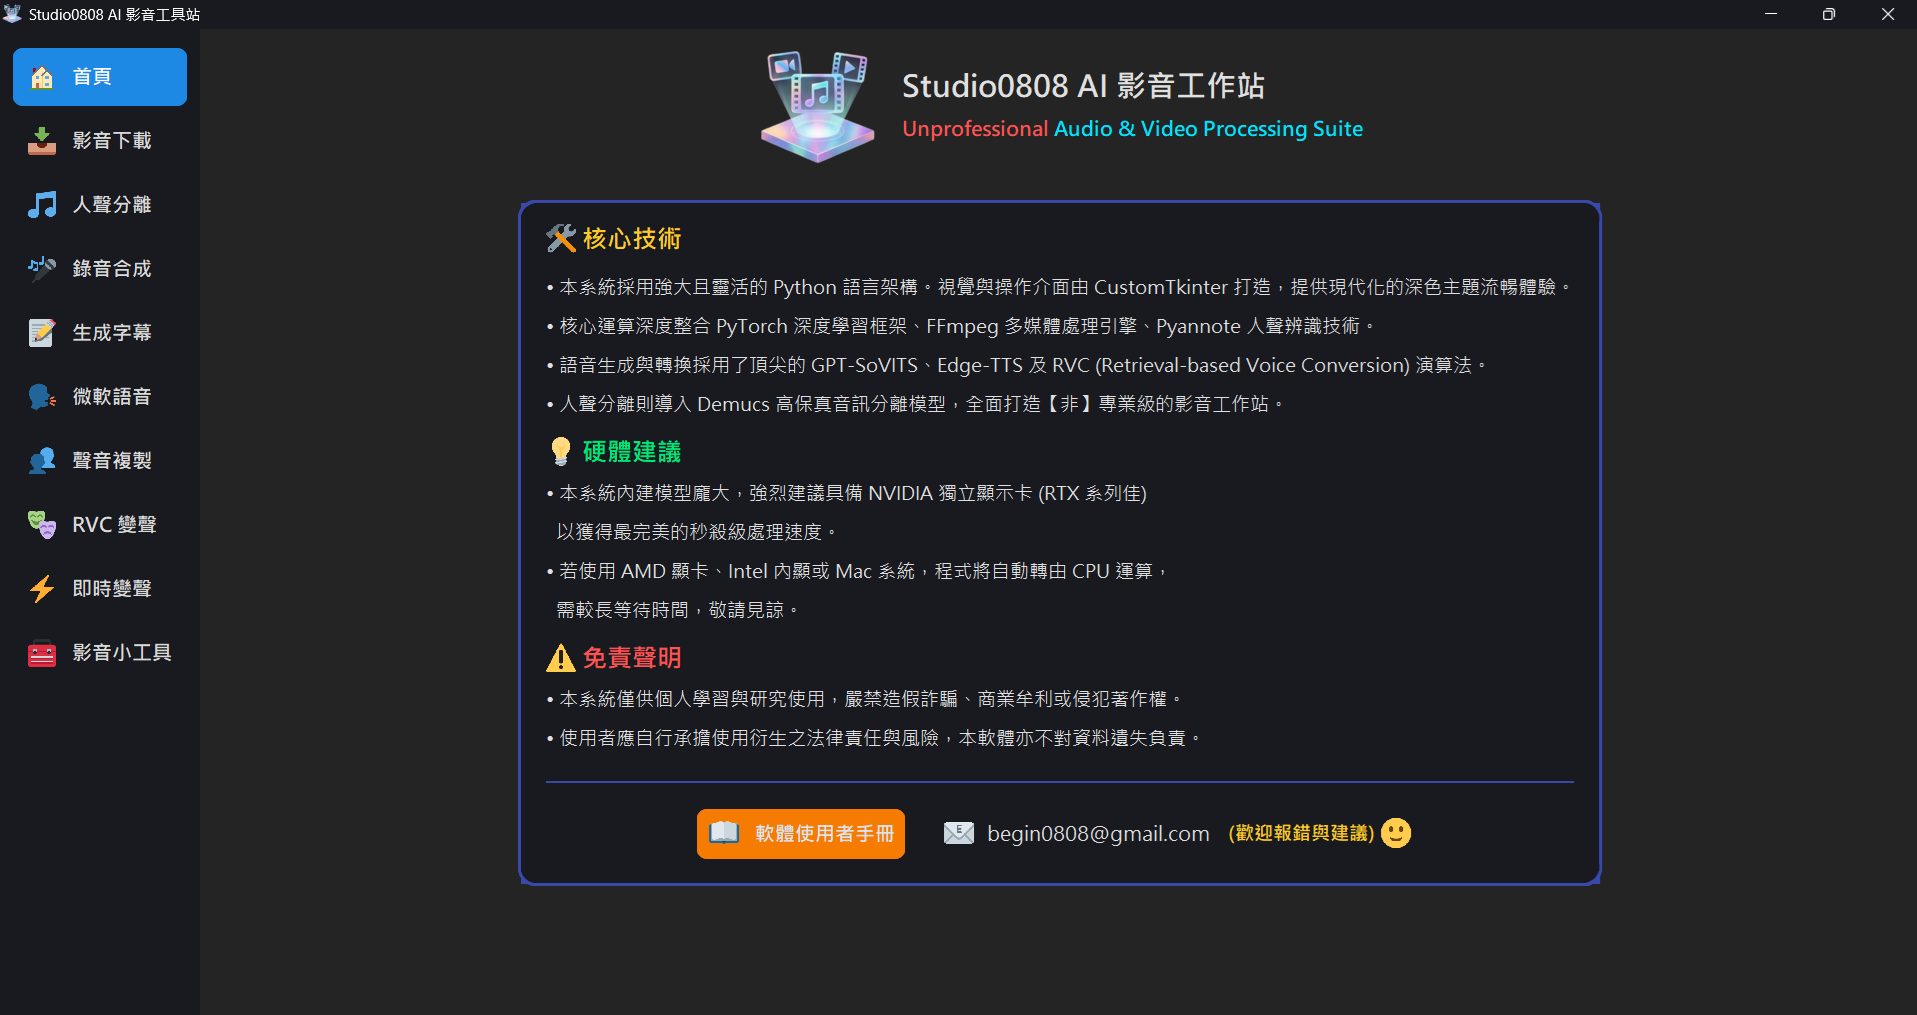
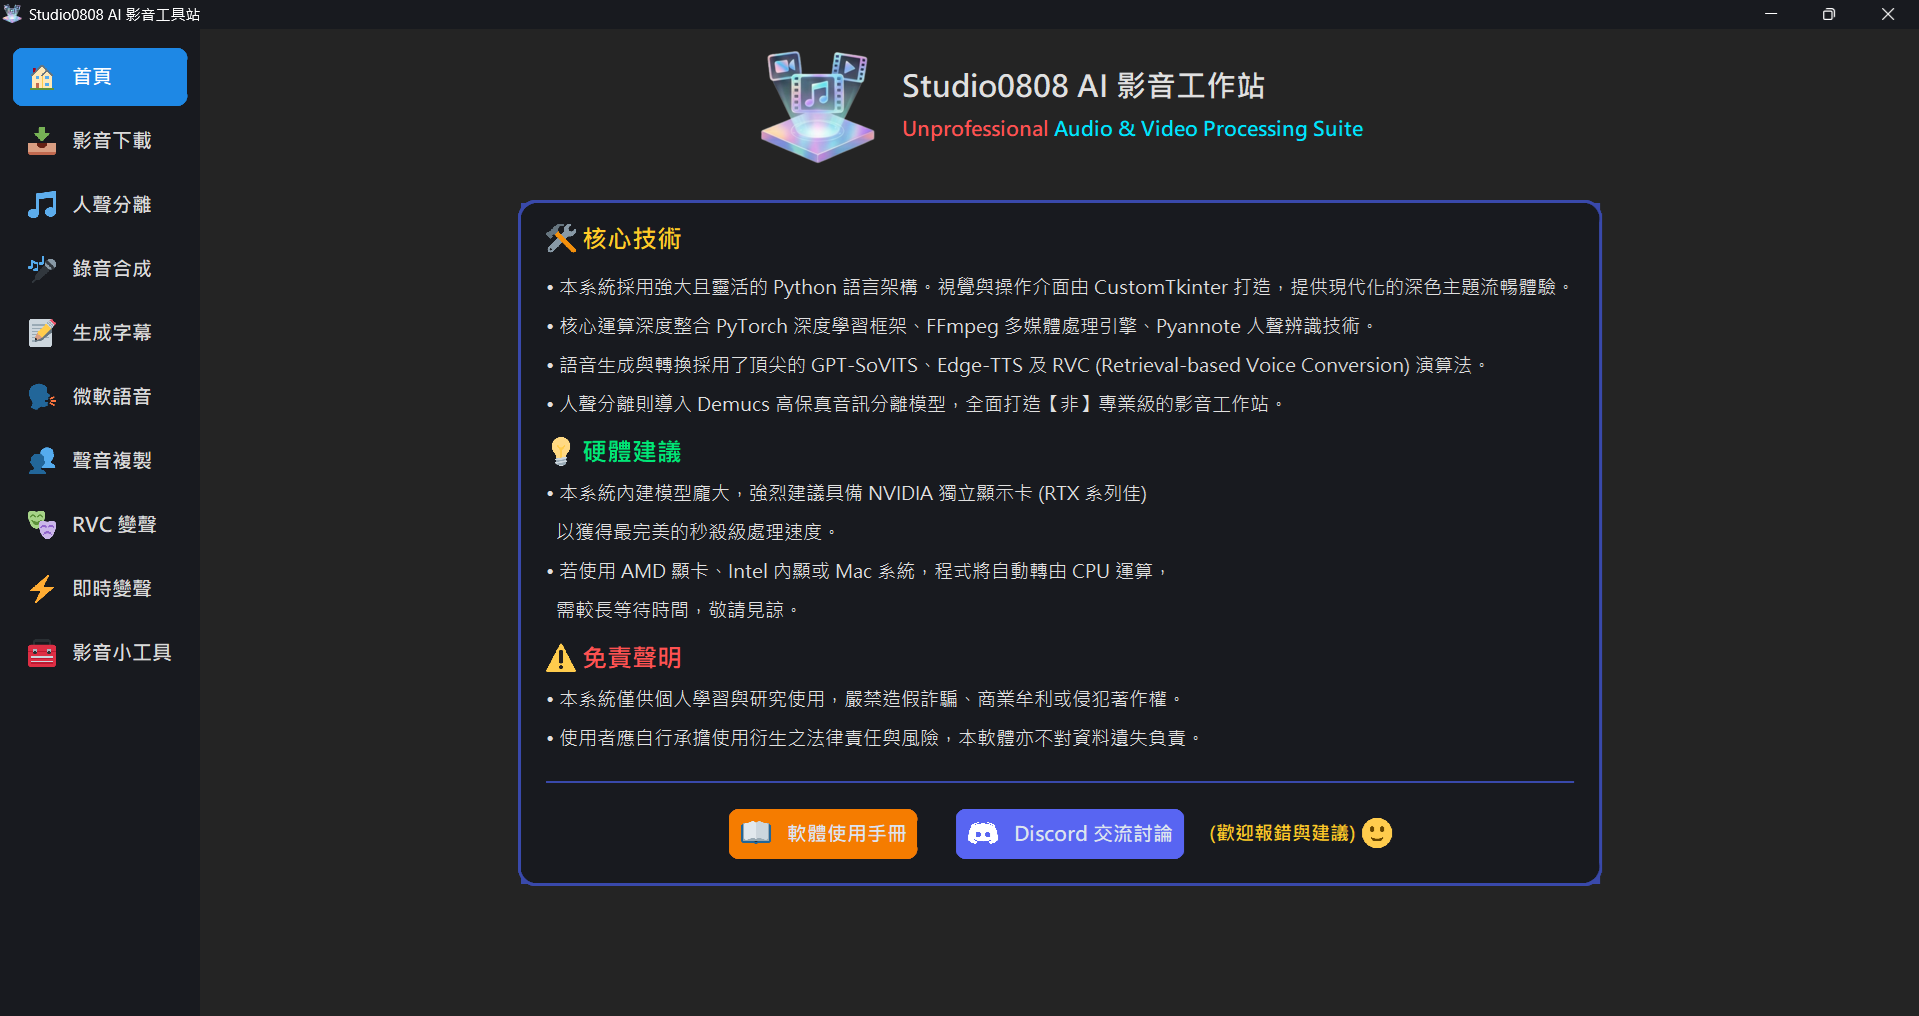
Update docs: add missing image tags, update download links, and sync screenshots

diff --git a/index.html b/index.html
@@ -232,24 +232,24 @@
             </div>
             <!-- 下載與社群按鈕 -->
             <div style="margin-top: 20px; display: flex; flex-direction: column; gap: 10px; padding: 0 15px;">
-                <a href="#" id="download-full-btn"
+                <a href="https://drive.google.com/file/d/15ZfQhFUGVTCoKxLwNDMinNuGALd3HiYC/view?usp=sharing" id="download-full-btn" target="_blank"
                     style="text-decoration: none; padding: 10px; border-radius: 8px; font-size: 14px; font-weight: bold; background: linear-gradient(135deg, #00B0FF, #0081CB); color: white; text-align: center; box-shadow: 0 4px 10px rgba(0, 176, 255, 0.3); transition: 0.3s;"
                     onmouseover="this.style.transform='translateY(-2px)'; this.style.boxShadow='0 6px 15px rgba(0, 176, 255, 0.5)';"
                     onmouseout="this.style.transform='translateY(0)'; this.style.boxShadow='0 4px 10px rgba(0, 176, 255, 0.3)';"
-                    onclick="alert('完整版上傳中，請稍後再試！'); return false;">📥 完整版 (含聲音複製)</a>
+                    >📥 完整版 (含聲音複製)</a>
                     
-                <a href="#" id="download-mid-btn"
+                <a href="https://drive.google.com/file/d/1WQ4ha5JsA9Tjs8Z6oN7BpP26cZFimnOv/view?usp=sharing" id="download-mid-btn" target="_blank"
                     style="text-decoration: none; padding: 10px; border-radius: 8px; font-size: 14px; font-weight: bold; background: linear-gradient(135deg, #00C853, #00A244); color: white; text-align: center; box-shadow: 0 4px 10px rgba(0, 200, 83, 0.3); transition: 0.3s;"
                     onmouseover="this.style.transform='translateY(-2px)'; this.style.boxShadow='0 6px 15px rgba(0, 200, 83, 0.5)';"
                     onmouseout="this.style.transform='translateY(0)'; this.style.boxShadow='0 4px 10px rgba(0, 200, 83, 0.3)';"
-                    onclick="alert('中量版上傳中，請稍後再試！'); return false;">📥 中量版 (無聲音複製)</a>
+                    >📥 中量版 (無聲音複製)</a>
                 
                 <a href="https://discord.gg/F7mC37MBtF" target="_blank"
                     style="text-decoration: none; padding: 8px; border-radius: 8px; font-size: 14px; font-weight: bold; background: #5865F2; color: white; text-align: center; transition: 0.3s;"
                     onmouseover="this.style.backgroundColor='#4752C4';"
                     onmouseout="this.style.backgroundColor='#5865F2';">💬 Discord 交流討論區</a>
                 
-                <p style="font-size: 11px; color: var(--text-muted); text-align: center; margin-top: 5px;">最後發布版本：2026.04.08</p>
+                <p style="font-size: 11px; color: var(--text-muted); text-align: center; margin-top: 5px;">最後發布版本：2026.04.15</p>
             </div>
         </div>
 

diff --git a/index_en.html b/index_en.html
@@ -232,24 +232,24 @@
             </div>
             <!-- Download & Community Buttons -->
             <div style="margin-top: 20px; display: flex; flex-direction: column; gap: 10px; padding: 0 15px;">
-                <a href="#" id="download-full-btn"
+                <a href="https://drive.google.com/file/d/15ZfQhFUGVTCoKxLwNDMinNuGALd3HiYC/view?usp=sharing" id="download-full-btn" target="_blank"
                     style="text-decoration: none; padding: 10px; border-radius: 8px; font-size: 14px; font-weight: bold; background: linear-gradient(135deg, #00B0FF, #0081CB); color: white; text-align: center; box-shadow: 0 4px 10px rgba(0, 176, 255, 0.3); transition: 0.3s;"
                     onmouseover="this.style.transform='translateY(-2px)'; this.style.boxShadow='0 6px 15px rgba(0, 176, 255, 0.5)';"
                     onmouseout="this.style.transform='translateY(0)'; this.style.boxShadow='0 4px 10px rgba(0, 176, 255, 0.3)';"
-                    onclick="alert('Uploading Full Version, please try again later!'); return false;">📥 Download Full Version</a>
+                    >📥 Download Full Version</a>
                     
-                <a href="#" id="download-mid-btn"
+                <a href="https://drive.google.com/file/d/1WQ4ha5JsA9Tjs8Z6oN7BpP26cZFimnOv/view?usp=sharing" id="download-mid-btn" target="_blank"
                     style="text-decoration: none; padding: 10px; border-radius: 8px; font-size: 14px; font-weight: bold; background: linear-gradient(135deg, #00C853, #00A244); color: white; text-align: center; box-shadow: 0 4px 10px rgba(0, 200, 83, 0.3); transition: 0.3s;"
                     onmouseover="this.style.transform='translateY(-2px)'; this.style.boxShadow='0 6px 15px rgba(0, 200, 83, 0.5)';"
                     onmouseout="this.style.transform='translateY(0)'; this.style.boxShadow='0 4px 10px rgba(0, 200, 83, 0.3)';"
-                    onclick="alert('Uploading Medium Version, please try again later!'); return false;">📥 Download Medium Version</a>
+                    >📥 Download Medium Version</a>
                 
                 <a href="https://discord.gg/F7mC37MBtF" target="_blank"
                     style="text-decoration: none; padding: 8px; border-radius: 8px; font-size: 14px; font-weight: bold; background: #5865F2; color: white; text-align: center; transition: 0.3s;"
                     onmouseover="this.style.backgroundColor='#4752C4';"
                     onmouseout="this.style.backgroundColor='#5865F2';">💬 Discord Community</a>
                 
-                <p style="font-size: 11px; color: var(--text-muted); text-align: center; margin-top: 5px;">Last Release: 2026.04.08</p>
+                <p style="font-size: 11px; color: var(--text-muted); text-align: center; margin-top: 5px;">Last Release: 2026.04.15</p>
             </div>
         </div>
 

diff --git a/recording_assistant_guide.html b/recording_assistant_guide.html
@@ -100,6 +100,11 @@
             <h1>錄音助手操作</h1>
         </header>
 
+        <div class="image-container" style="text-align: center; margin: 20px 0 40px 0;">
+            <img src="images/toolbox_recording.png" alt="錄音小幫手 介面截圖"
+                style="max-width: 100%; height: auto; border-radius: 8px; box-shadow: 0 4px 15px rgba(0,0,0,0.5); border: 1px solid rgba(255,255,255,0.1);">
+        </div>
+
         <div class="card">
             <h2>01. 功能概述</h2>
             <p><strong>錄音助手</strong> 是一個輕量級錄音工具，支援即時音波顯示與 AI 降噪，非常適合製作高品質語音素材。</p>

diff --git a/ktv_recording_guide.html b/ktv_recording_guide.html
@@ -97,6 +97,11 @@
             <h1>錄音合成技術</h1>
         </header>
 
+        <div class="image-container" style="text-align: center; margin: 20px 0 40px 0;">
+            <img src="images/ktv_recording.png" alt="錄音合成 介面截圖"
+                style="max-width: 100%; height: auto; border-radius: 8px; box-shadow: 0 4px 15px rgba(0,0,0,0.5); border: 1px solid rgba(255,255,255,0.1);">
+        </div>
+
         <div class="card">
             <h2>01. 功能概述</h2>
             <p><strong>錄音合成 (KTV Studio)</strong> 允許您載入影音伴奏進行即時演唱錄製，並自動進行人聲與伴奏的專業級合成。</p>

diff --git a/recording_assistant_guide_en.html b/recording_assistant_guide_en.html
@@ -86,6 +86,11 @@
             <h1>Recording Assistant</h1>
         </header>
 
+        <div class="image-container" style="text-align: center; margin: 20px 0 40px 0;">
+            <img src="images/toolbox_recording.png" alt="Recording Assistant Screenshot"
+                style="max-width: 100%; height: auto; border-radius: 8px; box-shadow: 0 4px 15px rgba(0,0,0,0.5); border: 1px solid rgba(255,255,255,0.1);">
+        </div>
+
         <div class="card">
             <h2>01. Overview</h2>
             <p><strong>Recording Assistant</strong> is a lightweight tool with live waveform display and AI denoise, perfect for high-quality voice samples.</p>

diff --git a/ktv_recording_guide_en.html b/ktv_recording_guide_en.html
@@ -89,6 +89,11 @@
             <h1>KTV Recording Technology</h1>
         </header>
 
+        <div class="image-container" style="text-align: center; margin: 20px 0 40px 0;">
+            <img src="images/ktv_recording.png" alt="KTV Recording Screenshot"
+                style="max-width: 100%; height: auto; border-radius: 8px; box-shadow: 0 4px 15px rgba(0,0,0,0.5); border: 1px solid rgba(255,255,255,0.1);">
+        </div>
+
         <div class="card">
             <h2>01. Overview</h2>
             <p><strong>KTV Studio</strong> is an all-in-one workstation for cover artists, allowing professional-grade vocal and backing track synthesis.</p>

diff --git a/rvc_training_guide_en.html b/rvc_training_guide_en.html
@@ -164,10 +164,10 @@ h1 {
             <h1>RVC Model Cloud Training</h1>
         </header>
 
-        <div class="image-container" style="text-align: center; margin: 20px 0 40px 0;">
+        <!-- <div class="image-container" style="text-align: center; margin: 20px 0 40px 0;">
             <img src="images/rvc_training.png" alt="RVC Model Training Screenshot"
                 style="max-width: 100%; height: auto; border-radius: 8px; box-shadow: 0 4px 15px rgba(0,0,0,0.5); border: 1px solid rgba(255,255,255,0.1);">
-        </div>
+        </div> -->
 
         <div class="card">
             <h2>Prologue: Creating Your Exclusive AI Voice</h2>

diff --git a/rvc_training_guide.html b/rvc_training_guide.html
@@ -164,10 +164,10 @@ h1 {
             <h1>RVC 模型訓練全攻略</h1>
         </header>
 
-        <div class="image-container" style="text-align: center; margin: 20px 0 40px 0;">
+        <!-- <div class="image-container" style="text-align: center; margin: 20px 0 40px 0;">
             <img src="images/rvc_training.png" alt="RVC 模型訓練 介面截圖"
                 style="max-width: 100%; height: auto; border-radius: 8px; box-shadow: 0 4px 15px rgba(0,0,0,0.5); border: 1px solid rgba(255,255,255,0.1);">
-        </div>
+        </div> -->
 
         <div class="card">
             <h2>前言：打造專屬 AI 聲音</h2>
